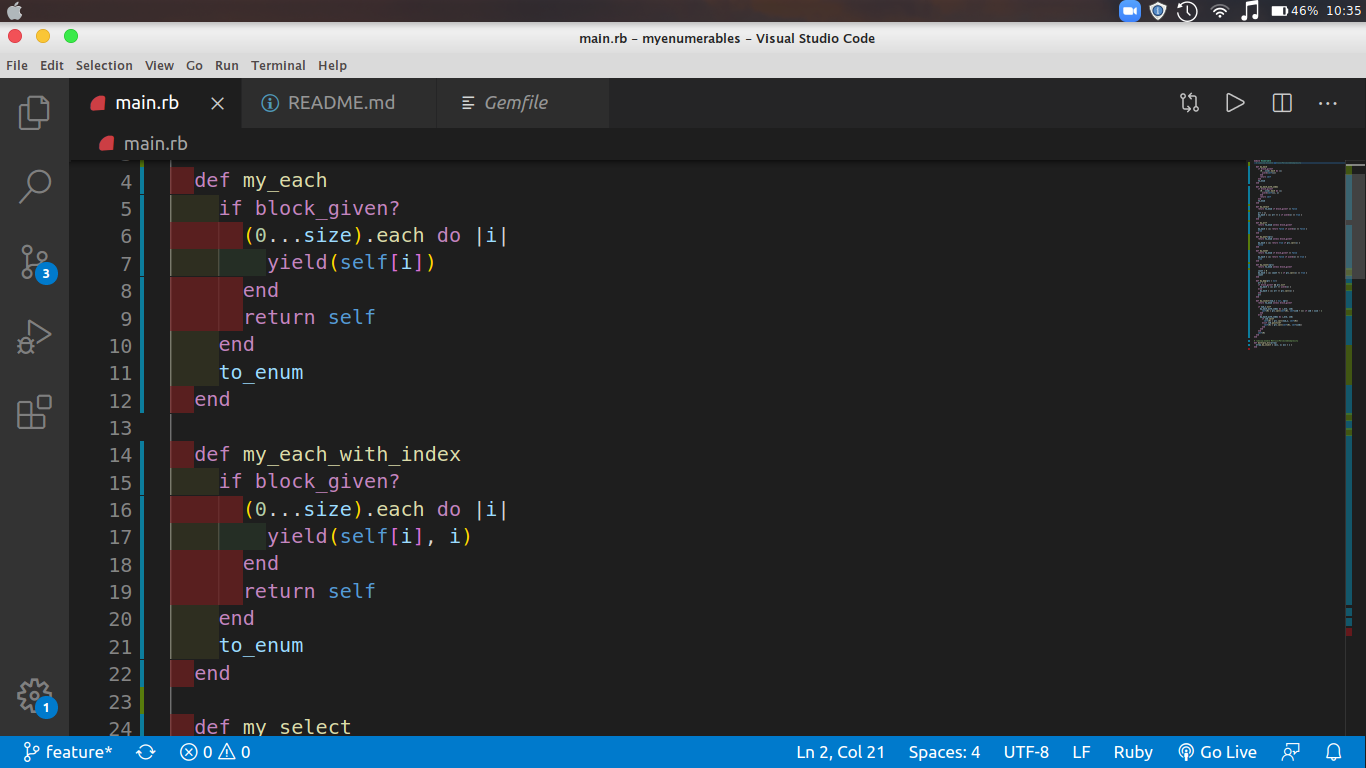
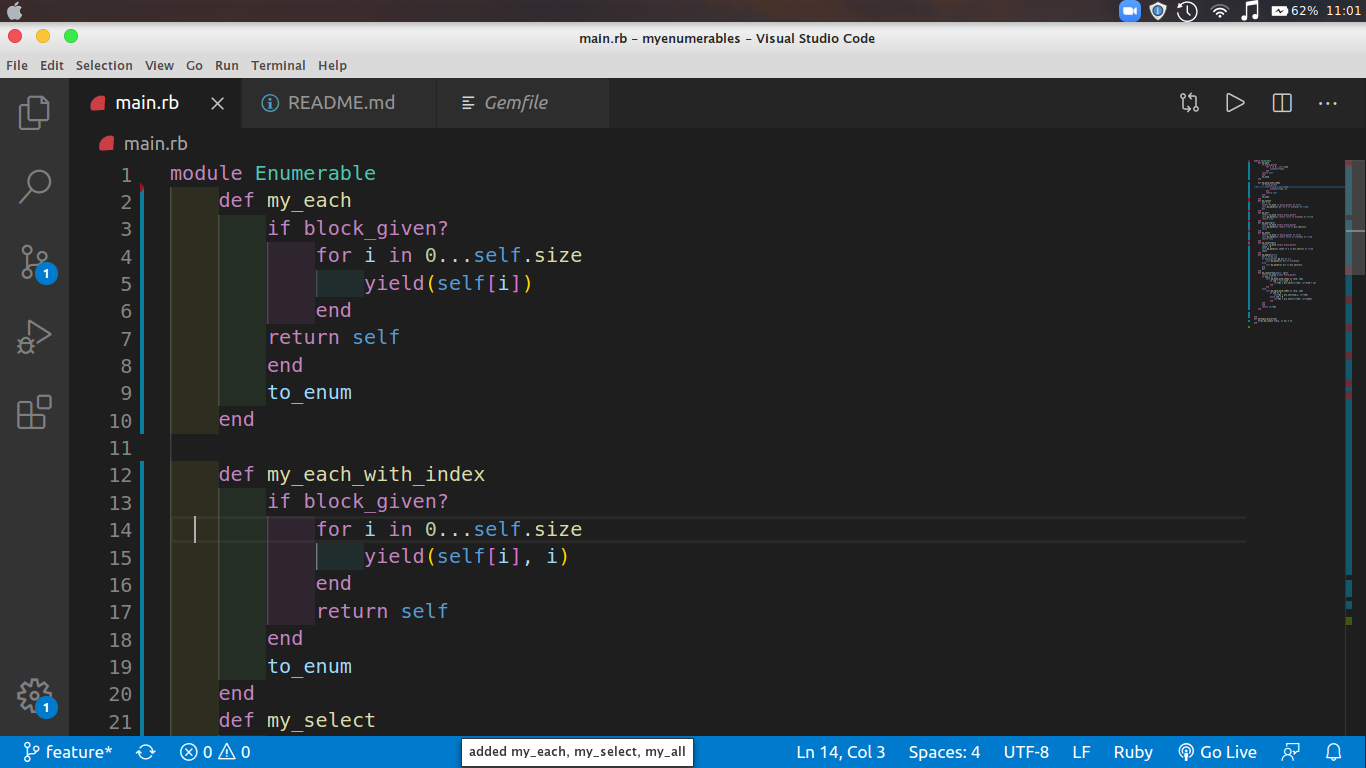
added corrected version

diff --git a/main.rb b/main.rb
@@ -2,9 +2,11 @@ module Enumerable
   # rubocop:disable Metrics/PerceivedComplexity
 
   def my_each
+    i = 0
     if block_given?
-      (0...size).each do |i|
+      while i <= length - 1
         yield(self[i])
+        i += 1
       end
       return self
     end
@@ -12,9 +14,11 @@ module Enumerable
   end
 
   def my_each_with_index
+    i = 0
     if block_given?
-      (0...size).each do |i|
+      while i <= length - 1
         yield(self[i], i)
+        i += 1
       end
       return self
     end
@@ -22,9 +26,9 @@ module Enumerable
   end
 
   def my_select
+    arr = []
     return to_enum if block_given? == false
 
-    arr = []
     my_each { |x| arr << x if yield(x) == true }
     arr
   end
@@ -73,22 +77,15 @@ module Enumerable
 
     if num_1.nil?
       my_each_with_index do |_ele, ind|
-        self[0] = prc.call(self[0], self[ind + 1]) if ind < size - 1
+        self[0] = prc.call(self[0], self[ind + 1]) if ind < length - 1
       end
     else
       my_each_with_index do |_ele, ind|
-        if ind.zero?
-          self[0] = prc.call(num_1, self[0])
-        elsif ind.positive?
-          self[0] = prc.call(self[0], self[ind])
-        end
+        self[0] = prc.call(num_1, self[0]) if ind.zero?
+        self[0] = prc.call(self[0], self[ind]) if ind.positive?
       end
     end
     self[0]
   end
 end
-
 # rubocop:enable Metrics/PerceivedComplexity
-def multiply_els(array)
-  array.my_inject { |acc, x| acc * x }
-end
